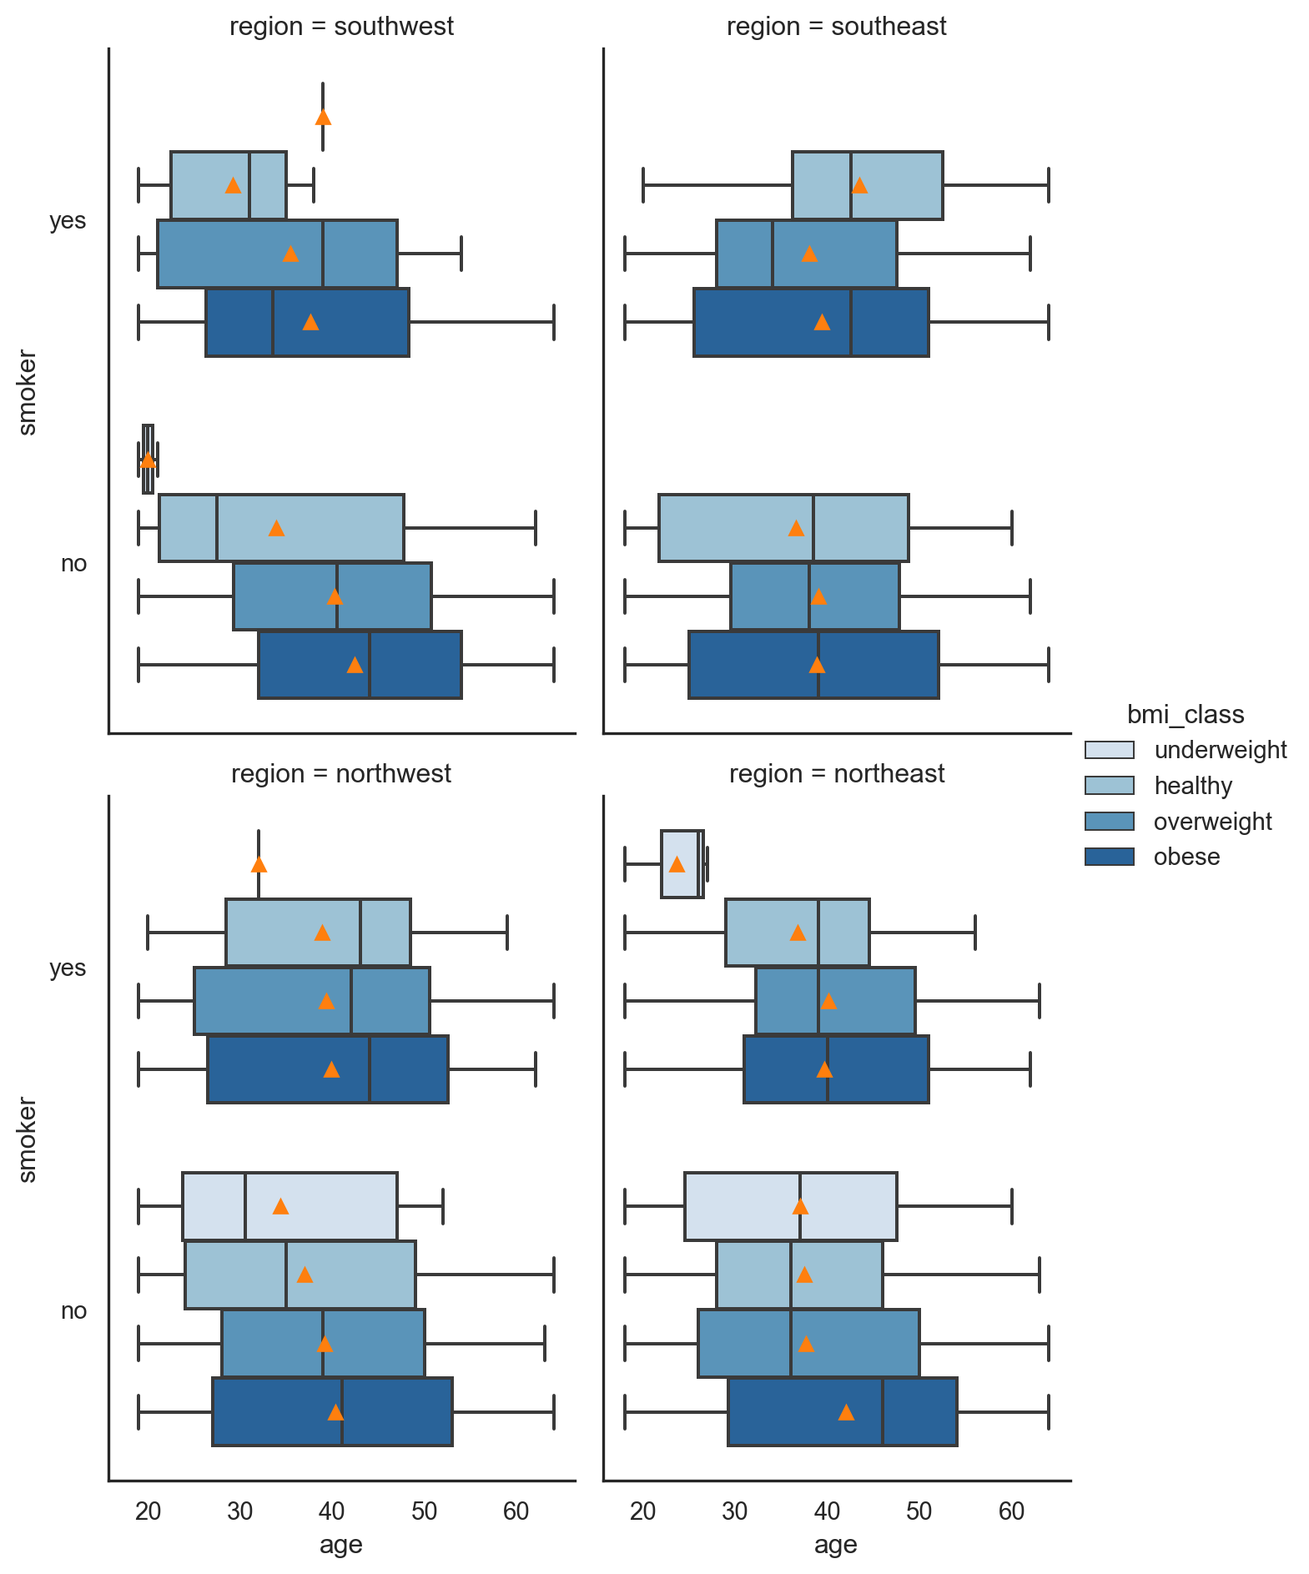
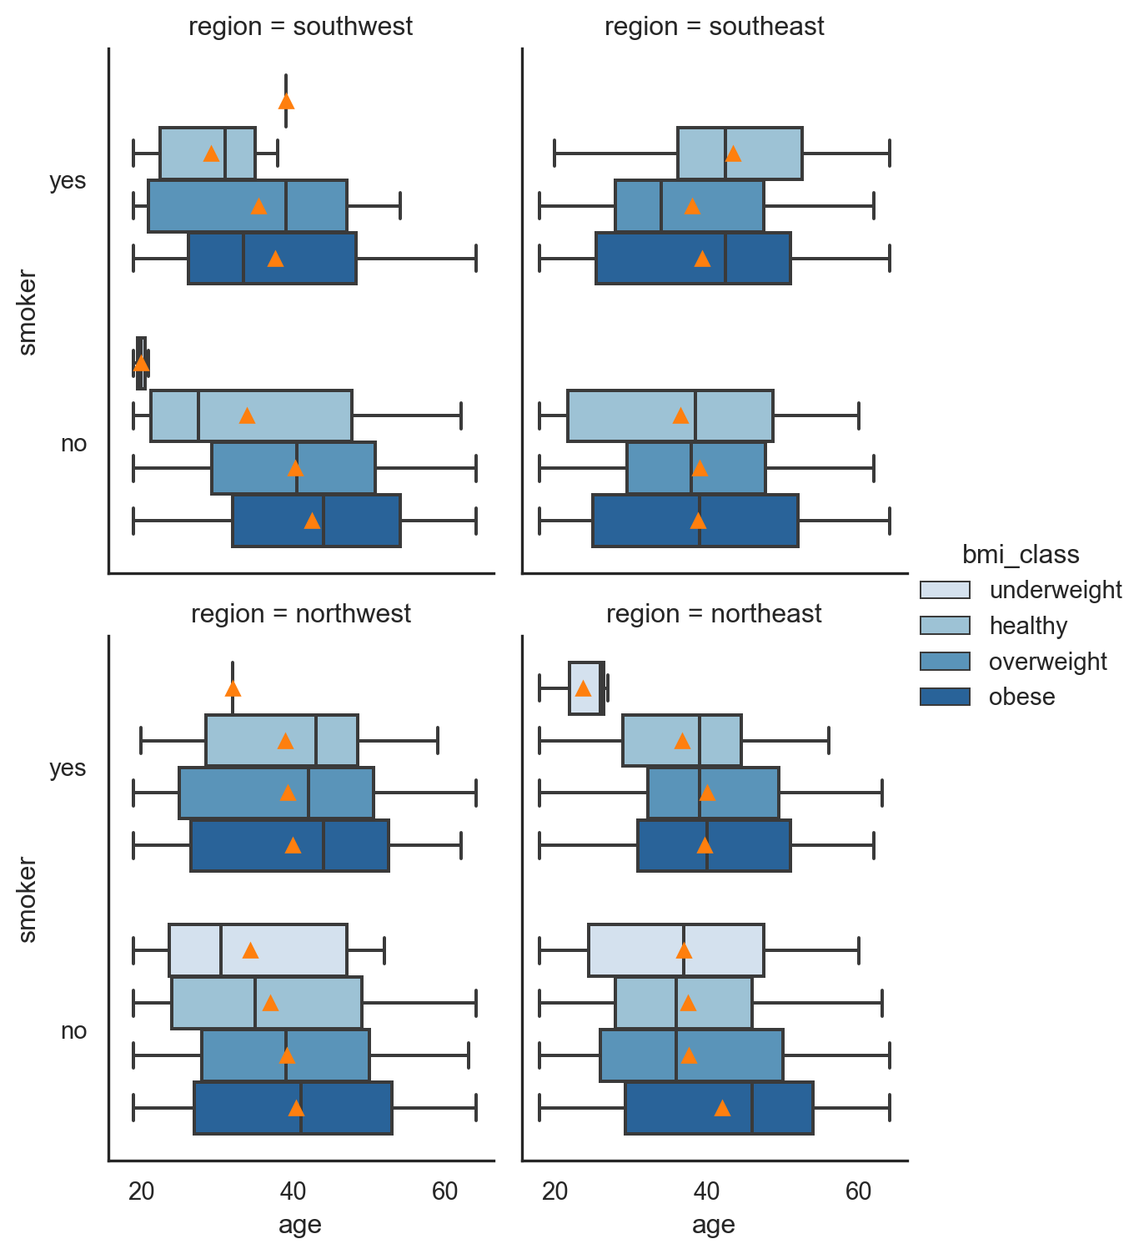
fine tuning image size

diff --git a/docs/posts/03-project-insurance-cost-part-1/index.html b/docs/posts/03-project-insurance-cost-part-1/index.html
@@ -228,7 +228,7 @@ code span.wa { color: #60a0b0; font-weight: bold; font-style: italic; } /* Warni
 <!-- sidebar -->
   <nav id="quarto-sidebar" class="sidebar collapse sidebar-navigation docked overflow-auto">
     <nav id="TOC" role="doc-toc" class="toc-active">
-    <h2 id="toc-title">Table of contents</h2>
+    <h2 id="toc-title">On This Page</h2>
    
   <ul>
   <li><a href="#introduction-objectives" id="toc-introduction-objectives" class="nav-link active" data-scroll-target="#introduction-objectives">Introduction &amp; Objectives</a></li>
@@ -258,7 +258,7 @@ code span.wa { color: #60a0b0; font-weight: bold; font-style: italic; } /* Warni
 
 
 
-<div class="quarto-figure quarto-figure-center">
+<div class="quarto-figure quarto-figure-left">
 <figure class="figure">
 <p></p><figcaption class="figure-caption">Photo by <a href="https://unsplash.com/@towfiqu999999?utm_source=unsplash&amp;utm_medium=referral&amp;utm_content=creditCopyText">Towfiqu barbhuiya</a> on <a href="https://unsplash.com/s/photos/medical-care?utm_source=unsplash&amp;utm_medium=referral&amp;utm_content=creditCopyText">Unsplash</a></figcaption><p></p>
 <p><img src="image.jpeg" class="img-fluid figure-img"></p>
@@ -305,7 +305,7 @@ code span.wa { color: #60a0b0; font-weight: bold; font-style: italic; } /* Warni
 <div class="cell" data-execution_count="2">
 <div class="sourceCode cell-code" id="cb2"><pre class="sourceCode numberSource python number-lines code-with-copy"><code class="sourceCode python"><span id="cb2-1"><a href="#cb2-1"></a>insurance <span class="op">=</span> pd.read_csv(<span class="st">'insurance.zip'</span>)</span>
 <span id="cb2-2"><a href="#cb2-2"></a>insurance.head()</span></code><button title="Copy to Clipboard" class="code-copy-button"><i class="bi"></i></button></pre></div>
-<div class="cell-output cell-output-display" data-execution_count="449">
+<div class="cell-output cell-output-display" data-execution_count="258">
 
 <div>
 
@@ -447,7 +447,7 @@ For more granular grouping, the [classification](https://www.calculator.net/bmi-
 <span id="cb3-21"><a href="#cb3-21"></a> <span class="co"># .style.background_gradient()</span></span>
 <span id="cb3-22"><a href="#cb3-22"></a> <span class="co"># .style.text_gradient()</span></span>
 <span id="cb3-23"><a href="#cb3-23"></a>)</span></code><button title="Copy to Clipboard" class="code-copy-button"><i class="bi"></i></button></pre></div>
-<div class="cell-output cell-output-display" data-execution_count="450">
+<div class="cell-output cell-output-display" data-execution_count="259">
 <div id="tbl-bmi-class" class="anchored">
 
 <div>
@@ -551,7 +551,7 @@ memory usage: 74.8+ KB</code></pre>
 <span id="cb6-2"><a href="#cb6-2"></a> .select_dtypes(include<span class="op">=</span><span class="bu">object</span>) <span class="co">#includes all column with object dtypes</span></span>
 <span id="cb6-3"><a href="#cb6-3"></a> .value_counts() <span class="co">#counting unique value</span></span>
 <span id="cb6-4"><a href="#cb6-4"></a>)</span></code><button title="Copy to Clipboard" class="code-copy-button"><i class="bi"></i></button></pre></div>
-<div class="cell-output cell-output-display" data-execution_count="452">
+<div class="cell-output cell-output-display" data-execution_count="261">
 <pre><code>sex     smoker  region   
 female  no      southwest    141
                 southeast    139
@@ -607,14 +607,16 @@ Important
 <span id="cb8-4"><a href="#cb8-4"></a>     x<span class="op">=</span><span class="st">'age'</span>, </span>
 <span id="cb8-5"><a href="#cb8-5"></a>     hue<span class="op">=</span><span class="st">'smoker'</span>,</span>
 <span id="cb8-6"><a href="#cb8-6"></a>     kind<span class="op">=</span><span class="st">'hist'</span>,</span>
-<span id="cb8-7"><a href="#cb8-7"></a> )</span>
-<span id="cb8-8"><a href="#cb8-8"></a>)<span class="op">;</span></span></code><button title="Copy to Clipboard" class="code-copy-button"><i class="bi"></i></button></pre></div>
+<span id="cb8-7"><a href="#cb8-7"></a>     height<span class="op">=</span><span class="dv">4</span>,</span>
+<span id="cb8-8"><a href="#cb8-8"></a>     aspect<span class="op">=</span><span class="fl">1.4</span></span>
+<span id="cb8-9"><a href="#cb8-9"></a> )</span>
+<span id="cb8-10"><a href="#cb8-10"></a>)<span class="op">;</span></span></code><button title="Copy to Clipboard" class="code-copy-button"><i class="bi"></i></button></pre></div>
 </details>
 <div class="cell-output cell-output-display">
-<div id="fig-mean-age" class="quarto-figure quarto-figure-center anchored">
+<div id="fig-mean-age" class="quarto-figure quarto-figure-left anchored">
 <figure class="figure">
 <p></p><figcaption class="figure-caption">Figure&nbsp;1: Overall Mean Age</figcaption><p></p>
-<p><img src="index_files/figure-html/fig-mean-age-output-1.png" width="550" height="464" class="figure-img"></p>
+<p><img src="index_files/figure-html/fig-mean-age-output-1.png" width="608" height="368" class="figure-img"></p>
 </figure>
 </div>
 </div>
@@ -647,7 +649,7 @@ Important
 <span id="cb9-19"><a href="#cb9-19"></a><span class="co">#  )</span></span>
 <span id="cb9-20"><a href="#cb9-20"></a>)</span></code><button title="Copy to Clipboard" class="code-copy-button"><i class="bi"></i></button></pre></div>
 </details>
-<div class="cell-output cell-output-display" data-execution_count="454">
+<div class="cell-output cell-output-display" data-execution_count="263">
 <div id="tbl-smoker-based-on-sex" class="anchored">
 
 <div>
@@ -719,7 +721,7 @@ Important
 <span id="cb10-4"><a href="#cb10-4"></a> .agg([np.mean])<span class="op">/</span><span class="fl">8434.268298</span> <span class="co">#to calculate how high the smoker medical charges</span></span>
 <span id="cb10-5"><a href="#cb10-5"></a>)</span></code><button title="Copy to Clipboard" class="code-copy-button"><i class="bi"></i></button></pre></div>
 </details>
-<div class="cell-output cell-output-display" data-execution_count="455">
+<div class="cell-output cell-output-display" data-execution_count="264">
 <div id="tbl-ratio-smoker" class="anchored">
 
 <div>
@@ -766,7 +768,7 @@ Important
 <span id="cb11-4"><a href="#cb11-4"></a> .agg([np.mean])<span class="op">/</span><span class="fl">12569.578844</span> <span class="co">#to calculate how high the smoker medical charges</span></span>
 <span id="cb11-5"><a href="#cb11-5"></a>)</span></code><button title="Copy to Clipboard" class="code-copy-button"><i class="bi"></i></button></pre></div>
 </details>
-<div class="cell-output cell-output-display" data-execution_count="456">
+<div class="cell-output cell-output-display" data-execution_count="265">
 <div id="tbl-ratio-sex" class="anchored">
 
 <div>
@@ -816,18 +818,18 @@ Important
 <span id="cb12-7"><a href="#cb12-7"></a>  hue<span class="op">=</span><span class="st">'bmi_class'</span>,</span>
 <span id="cb12-8"><a href="#cb12-8"></a>  col<span class="op">=</span><span class="st">'sex'</span>,</span>
 <span id="cb12-9"><a href="#cb12-9"></a>  <span class="co"># col_wrap=1,</span></span>
-<span id="cb12-10"><a href="#cb12-10"></a>  height<span class="op">=</span><span class="dv">5</span>,</span>
-<span id="cb12-11"><a href="#cb12-11"></a>  aspect<span class="op">=</span><span class="fl">0.7</span>,</span>
+<span id="cb12-10"><a href="#cb12-10"></a>  height<span class="op">=</span><span class="dv">4</span>,</span>
+<span id="cb12-11"><a href="#cb12-11"></a>  aspect<span class="op">=</span><span class="fl">0.75</span>,</span>
 <span id="cb12-12"><a href="#cb12-12"></a>  showmeans<span class="op">=</span><span class="va">True</span>,</span>
 <span id="cb12-13"><a href="#cb12-13"></a>  palette<span class="op">=</span><span class="st">'Blues'</span>,</span>
 <span id="cb12-14"><a href="#cb12-14"></a> )</span>
 <span id="cb12-15"><a href="#cb12-15"></a>)<span class="op">;</span></span></code><button title="Copy to Clipboard" class="code-copy-button"><i class="bi"></i></button></pre></div>
 </details>
 <div class="cell-output cell-output-display">
-<div id="fig-boxplot-age" class="quarto-figure quarto-figure-center anchored">
+<div id="fig-boxplot-age" class="quarto-figure quarto-figure-left anchored">
 <figure class="figure">
 <p></p><figcaption class="figure-caption">Figure&nbsp;2: Age distribution based on Categorical values</figcaption><p></p>
-<p><img src="index_files/figure-html/fig-boxplot-age-output-1.png" width="785" height="464" class="figure-img"></p>
+<p><img src="index_files/figure-html/fig-boxplot-age-output-1.png" width="686" height="368" class="figure-img"></p>
 </figure>
 </div>
 </div>
@@ -850,18 +852,18 @@ Important
 <span id="cb13-7"><a href="#cb13-7"></a>  hue<span class="op">=</span><span class="st">'bmi_class'</span>,</span>
 <span id="cb13-8"><a href="#cb13-8"></a>  col<span class="op">=</span><span class="st">'region'</span>,</span>
 <span id="cb13-9"><a href="#cb13-9"></a>  col_wrap<span class="op">=</span><span class="dv">2</span>,</span>
-<span id="cb13-10"><a href="#cb13-10"></a>  height<span class="op">=</span><span class="dv">5</span>,</span>
-<span id="cb13-11"><a href="#cb13-11"></a>  aspect<span class="op">=</span><span class="fl">0.7</span>,</span>
+<span id="cb13-10"><a href="#cb13-10"></a>  height<span class="op">=</span><span class="dv">4</span>,</span>
+<span id="cb13-11"><a href="#cb13-11"></a>  aspect<span class="op">=</span><span class="fl">0.75</span>,</span>
 <span id="cb13-12"><a href="#cb13-12"></a>  showmeans<span class="op">=</span><span class="va">True</span>,</span>
 <span id="cb13-13"><a href="#cb13-13"></a>  palette<span class="op">=</span><span class="st">'Blues'</span>,</span>
 <span id="cb13-14"><a href="#cb13-14"></a> )</span>
 <span id="cb13-15"><a href="#cb13-15"></a>)<span class="op">;</span></span></code><button title="Copy to Clipboard" class="code-copy-button"><i class="bi"></i></button></pre></div>
 </details>
 <div class="cell-output cell-output-display">
-<div id="fig-boxplot-region" class="quarto-figure quarto-figure-center anchored">
+<div id="fig-boxplot-region" class="quarto-figure quarto-figure-left anchored">
 <figure class="figure">
 <p></p><figcaption class="figure-caption">Figure&nbsp;3: Age distribution based on region</figcaption><p></p>
-<p><img src="index_files/figure-html/fig-boxplot-region-output-1.png" width="785" height="944" class="figure-img"></p>
+<p><img src="index_files/figure-html/fig-boxplot-region-output-1.png" width="686" height="752" class="figure-img"></p>
 </figure>
 </div>
 </div>
@@ -883,8 +885,8 @@ Important
 <span id="cb14-9"><a href="#cb14-9"></a>  <span class="co"># legend='full',</span></span>
 <span id="cb14-10"><a href="#cb14-10"></a>  <span class="co"># col='bmi_class',</span></span>
 <span id="cb14-11"><a href="#cb14-11"></a>  <span class="co"># col_wrap=1,</span></span>
-<span id="cb14-12"><a href="#cb14-12"></a>  <span class="co"># height=5, </span></span>
-<span id="cb14-13"><a href="#cb14-13"></a>  <span class="co"># aspect=1.4,</span></span>
+<span id="cb14-12"><a href="#cb14-12"></a>  height<span class="op">=</span><span class="dv">4</span>, </span>
+<span id="cb14-13"><a href="#cb14-13"></a>  aspect<span class="op">=</span><span class="fl">1.4</span>,</span>
 <span id="cb14-14"><a href="#cb14-14"></a>  markers<span class="op">=</span>[<span class="st">"8"</span>,<span class="st">"P"</span>],</span>
 <span id="cb14-15"><a href="#cb14-15"></a>  palette<span class="op">=</span><span class="st">'tab10'</span>,</span>
 <span id="cb14-16"><a href="#cb14-16"></a>  size_order<span class="op">=</span>[<span class="st">'obese'</span>, <span class="st">'overweight'</span>, <span class="st">'healthy'</span>, <span class="st">'underweight'</span>]</span>
@@ -908,10 +910,10 @@ Important
 <span id="cb14-34"><a href="#cb14-34"></a>plt.suptitle(<span class="st">'age vs charges'</span>, y <span class="op">=</span> <span class="fl">1.05</span>)<span class="op">;</span></span></code><button title="Copy to Clipboard" class="code-copy-button"><i class="bi"></i></button></pre></div>
 </details>
 <div class="cell-output cell-output-display">
-<div id="fig-age-charges-1" class="quarto-figure quarto-figure-center anchored">
+<div id="fig-age-charges-1" class="quarto-figure quarto-figure-left anchored">
 <figure class="figure">
 <p></p><figcaption class="figure-caption">Figure&nbsp;4: Age vs Charges</figcaption><p></p>
-<p><img src="index_files/figure-html/fig-age-charges-1-output-1.png" width="582" height="505" class="figure-img"></p>
+<p><img src="index_files/figure-html/fig-age-charges-1-output-1.png" width="643" height="405" class="figure-img"></p>
 </figure>
 </div>
 </div>
@@ -945,8 +947,8 @@ Important
 <span id="cb15-12"><a href="#cb15-12"></a>  col<span class="op">=</span><span class="st">'sex'</span>,</span>
 <span id="cb15-13"><a href="#cb15-13"></a><span class="co">#   col_wrap=1,</span></span>
 <span id="cb15-14"><a href="#cb15-14"></a>  <span class="co"># row='smoker',</span></span>
-<span id="cb15-15"><a href="#cb15-15"></a><span class="co">#   height=4.7, </span></span>
-<span id="cb15-16"><a href="#cb15-16"></a><span class="co">#   aspect=0.9,</span></span>
+<span id="cb15-15"><a href="#cb15-15"></a>  height<span class="op">=</span><span class="dv">4</span>, </span>
+<span id="cb15-16"><a href="#cb15-16"></a>  aspect<span class="op">=</span><span class="fl">0.75</span>,</span>
 <span id="cb15-17"><a href="#cb15-17"></a>  markers<span class="op">=</span>[<span class="st">"8"</span>,<span class="st">"P"</span>],</span>
 <span id="cb15-18"><a href="#cb15-18"></a>  s<span class="op">=</span><span class="dv">300</span>,</span>
 <span id="cb15-19"><a href="#cb15-19"></a>  palette<span class="op">=</span><span class="st">'tab10'</span>,</span>
@@ -959,17 +961,17 @@ Important
 <span id="cb15-26"><a href="#cb15-26"></a>plt.suptitle(<span class="st">'age vs charges | separated by male vs female'</span>, y <span class="op">=</span> <span class="fl">1.05</span>)<span class="op">;</span></span></code><button title="Copy to Clipboard" class="code-copy-button"><i class="bi"></i></button></pre></div>
 </details>
 <div class="cell-output cell-output-display">
-<div id="fig-age-charges-2" class="quarto-figure quarto-figure-center anchored">
+<div id="fig-age-charges-2" class="quarto-figure quarto-figure-left anchored">
 <figure class="figure">
 <p></p><figcaption class="figure-caption">Figure&nbsp;5: Age vs Charges based on Sex</figcaption><p></p>
-<p><img src="index_files/figure-html/fig-age-charges-2-output-1.png" width="1075" height="505" class="figure-img"></p>
+<p><img src="index_files/figure-html/fig-age-charges-2-output-1.png" width="682" height="405" class="figure-img"></p>
 </figure>
 </div>
 </div>
 </div>
 <p><strong>Couple conclusions can be drawn from these <a href="#fig-age-charges-1">Figure&nbsp;4</a> and <a href="#fig-age-charges-2">Figure&nbsp;5</a>:</strong></p>
 <ol type="1">
-<li>That the <code>female is likely to have higher medical charges</code> compared to male, albeit relatively small difference (10% difference).</li>
+<li>That the <code>male is likely to have higher medical charges</code> compared to female, albeit relatively small difference (10% difference).</li>
 <li>There are three groups of strong trend between age vs charges, where as the age increases in all trends, the medical charges is likely to increases as well.</li>
 <li>The three groups can be characterized from low-high charges as follows:
 <ol type="1">
@@ -996,8 +998,8 @@ Important
 <span id="cb16-10"><a href="#cb16-10"></a>  col<span class="op">=</span><span class="st">'smoker'</span>,</span>
 <span id="cb16-11"><a href="#cb16-11"></a>  <span class="co"># col_wrap=1,</span></span>
 <span id="cb16-12"><a href="#cb16-12"></a>  <span class="co"># row='smoker',</span></span>
-<span id="cb16-13"><a href="#cb16-13"></a>  height<span class="op">=</span><span class="fl">4.7</span>, </span>
-<span id="cb16-14"><a href="#cb16-14"></a>  aspect<span class="op">=</span><span class="fl">0.9</span>,</span>
+<span id="cb16-13"><a href="#cb16-13"></a>  height<span class="op">=</span><span class="dv">4</span>, </span>
+<span id="cb16-14"><a href="#cb16-14"></a>  aspect<span class="op">=</span><span class="fl">0.75</span>,</span>
 <span id="cb16-15"><a href="#cb16-15"></a>  markers<span class="op">=</span>[<span class="st">"8"</span>,<span class="st">"P"</span>],</span>
 <span id="cb16-16"><a href="#cb16-16"></a>  s<span class="op">=</span><span class="dv">300</span>,</span>
 <span id="cb16-17"><a href="#cb16-17"></a>  palette<span class="op">=</span><span class="st">'tab10'</span>,</span>
@@ -1008,7 +1010,7 @@ Important
 <span id="cb16-22"><a href="#cb16-22"></a></span>
 <span id="cb16-23"><a href="#cb16-23"></a><span class="co">#annotations</span></span>
 <span id="cb16-24"><a href="#cb16-24"></a></span>
-<span id="cb16-25"><a href="#cb16-25"></a>g.fig.text(<span class="fl">0.7</span>, <span class="fl">0.22</span>, <span class="st">"I"</span>,</span>
+<span id="cb16-25"><a href="#cb16-25"></a>g.fig.text(<span class="fl">0.65</span>, <span class="fl">0.22</span>, <span class="st">"I"</span>,</span>
 <span id="cb16-26"><a href="#cb16-26"></a>   color<span class="op">=</span><span class="st">"black"</span>, fontdict<span class="op">=</span><span class="bu">dict</span>(size<span class="op">=</span><span class="dv">20</span>), fontweight<span class="op">=</span><span class="st">'bold'</span></span>
 <span id="cb16-27"><a href="#cb16-27"></a>          )</span>
 <span id="cb16-28"><a href="#cb16-28"></a></span>
@@ -1028,10 +1030,10 @@ Important
 <span id="cb16-42"><a href="#cb16-42"></a>plt.suptitle(<span class="st">'age vs charges | separated by smoker vs non-smoker'</span>, y <span class="op">=</span> <span class="fl">1.05</span>)<span class="op">;</span></span></code><button title="Copy to Clipboard" class="code-copy-button"><i class="bi"></i></button></pre></div>
 </details>
 <div class="cell-output cell-output-display">
-<div id="fig-outlier" class="quarto-figure quarto-figure-center anchored">
+<div id="fig-outlier" class="quarto-figure quarto-figure-left anchored">
 <figure class="figure">
 <p></p><figcaption class="figure-caption">Figure&nbsp;6: Outliers?</figcaption><p></p>
-<p><img src="index_files/figure-html/fig-outlier-output-1.png" width="925" height="475" class="figure-img"></p>
+<p><img src="index_files/figure-html/fig-outlier-output-1.png" width="682" height="405" class="figure-img"></p>
 </figure>
 </div>
 </div>
@@ -1056,7 +1058,7 @@ Important
 <span id="cb17-11"><a href="#cb17-11"></a>  col_wrap<span class="op">=</span><span class="dv">2</span>,</span>
 <span id="cb17-12"><a href="#cb17-12"></a>  <span class="co"># row='region',</span></span>
 <span id="cb17-13"><a href="#cb17-13"></a>  height<span class="op">=</span><span class="dv">4</span>, </span>
-<span id="cb17-14"><a href="#cb17-14"></a>  aspect<span class="op">=</span><span class="dv">1</span>,</span>
+<span id="cb17-14"><a href="#cb17-14"></a>  aspect<span class="op">=</span><span class="fl">0.75</span>,</span>
 <span id="cb17-15"><a href="#cb17-15"></a><span class="co">#   markers=["8","P"],</span></span>
 <span id="cb17-16"><a href="#cb17-16"></a>  <span class="co"># s=400,</span></span>
 <span id="cb17-17"><a href="#cb17-17"></a>  palette<span class="op">=</span><span class="st">'tab10'</span>,</span>
@@ -1066,10 +1068,10 @@ Important
 <span id="cb17-21"><a href="#cb17-21"></a>)<span class="op">;</span></span></code><button title="Copy to Clipboard" class="code-copy-button"><i class="bi"></i></button></pre></div>
 </details>
 <div class="cell-output cell-output-display">
-<div id="fig-outlier-eda" class="quarto-figure quarto-figure-center anchored">
+<div id="fig-outlier-eda" class="quarto-figure quarto-figure-left anchored">
 <figure class="figure">
 <p></p><figcaption class="figure-caption">Figure&nbsp;7: Outliers vs number of Children</figcaption><p></p>
-<p><img src="index_files/figure-html/fig-outlier-eda-output-1.png" width="880" height="1136" class="figure-img"></p>
+<p><img src="index_files/figure-html/fig-outlier-eda-output-1.png" width="682" height="1136" class="figure-img"></p>
 </figure>
 </div>
 </div>
@@ -1102,8 +1104,8 @@ Important
 <span id="cb18-9"><a href="#cb18-9"></a>  <span class="co"># legend='full',</span></span>
 <span id="cb18-10"><a href="#cb18-10"></a>  <span class="co"># col='bmi_class',</span></span>
 <span id="cb18-11"><a href="#cb18-11"></a>  <span class="co"># col_wrap=1,</span></span>
-<span id="cb18-12"><a href="#cb18-12"></a><span class="co">#   height=5, </span></span>
-<span id="cb18-13"><a href="#cb18-13"></a><span class="co">#   aspect=1.2,</span></span>
+<span id="cb18-12"><a href="#cb18-12"></a>  height<span class="op">=</span><span class="dv">4</span>, </span>
+<span id="cb18-13"><a href="#cb18-13"></a>  aspect<span class="op">=</span><span class="fl">1.4</span>,</span>
 <span id="cb18-14"><a href="#cb18-14"></a>  markers<span class="op">=</span>[<span class="st">"8"</span>,<span class="st">"P"</span>],</span>
 <span id="cb18-15"><a href="#cb18-15"></a>  palette<span class="op">=</span><span class="st">'tab10'</span>,</span>
 <span id="cb18-16"><a href="#cb18-16"></a>  size_order<span class="op">=</span>[<span class="dv">1</span>,<span class="dv">2</span>,<span class="dv">3</span>,<span class="dv">4</span>,<span class="dv">5</span>,<span class="dv">6</span>]</span>
@@ -1130,10 +1132,10 @@ Important
 <span id="cb18-37"><a href="#cb18-37"></a>plt.suptitle(<span class="st">'bmi vs charges'</span>, y <span class="op">=</span> <span class="fl">1.05</span>)<span class="op">;</span></span></code><button title="Copy to Clipboard" class="code-copy-button"><i class="bi"></i></button></pre></div>
 </details>
 <div class="cell-output cell-output-display">
-<div id="fig-bmi-charges" class="quarto-figure quarto-figure-center anchored">
+<div id="fig-bmi-charges" class="quarto-figure quarto-figure-left anchored">
 <figure class="figure">
 <p></p><figcaption class="figure-caption">Figure&nbsp;8: BMI vs Charges</figcaption><p></p>
-<p><img src="index_files/figure-html/fig-bmi-charges-output-1.png" width="539" height="505" class="figure-img"></p>
+<p><img src="index_files/figure-html/fig-bmi-charges-output-1.png" width="598" height="405" class="figure-img"></p>
 </figure>
 </div>
 </div>

diff --git a/docs/index.html b/docs/index.html
@@ -207,7 +207,7 @@ ul.task-list li input[type="checkbox"] {
   </div>
 </div>
 <div class="list grid quarto-listing-cols-3">
-<div class="g-col-1" data-index="0" data-categories="project,data-science,python" data-listing-date-sort="1666800000000" data-listing-file-modified-sort="1667018476976" data-listing-reading-time-sort="13.18">
+<div class="g-col-1" data-index="0" data-categories="project,data-science,python" data-listing-date-sort="1666800000000" data-listing-file-modified-sort="1667029643663" data-listing-reading-time-sort="13.2">
 <a href="./posts/03-project-insurance-cost-part-1/index.html" class="quarto-grid-link">
 <div class="quarto-grid-item card h-100 card-left">
 <p class="card-img-top">

diff --git a/docs/posts/02-migrating-to-quarto/index.html b/docs/posts/02-migrating-to-quarto/index.html
@@ -225,7 +225,7 @@ code span.wa { color: #60a0b0; font-weight: bold; font-style: italic; } /* Warni
 <!-- sidebar -->
   <nav id="quarto-sidebar" class="sidebar collapse sidebar-navigation docked overflow-auto">
     <nav id="TOC" role="doc-toc" class="toc-active">
-    <h2 id="toc-title">Table of contents</h2>
+    <h2 id="toc-title">On This Page</h2>
    
   <ul>
   <li><a href="#static-website-triumph" id="toc-static-website-triumph" class="nav-link active" data-scroll-target="#static-website-triumph">Static Website Triumph</a></li>
